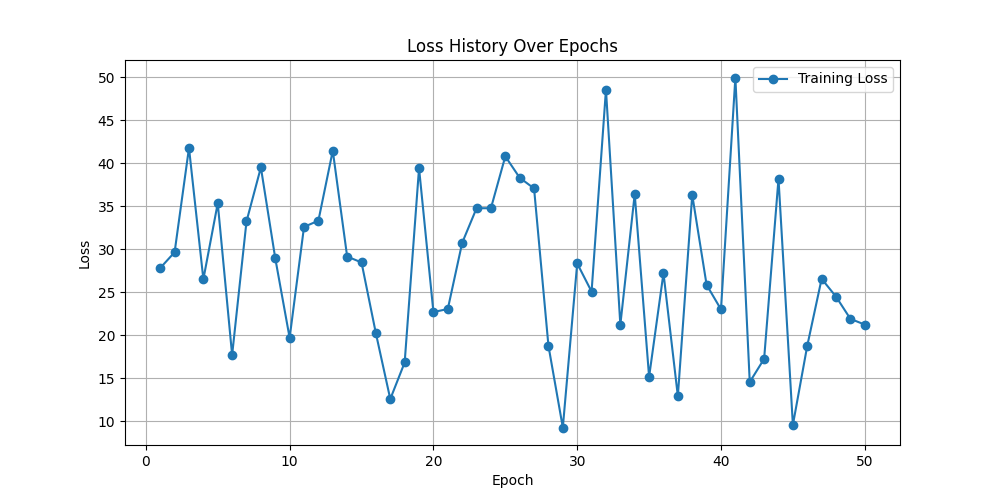
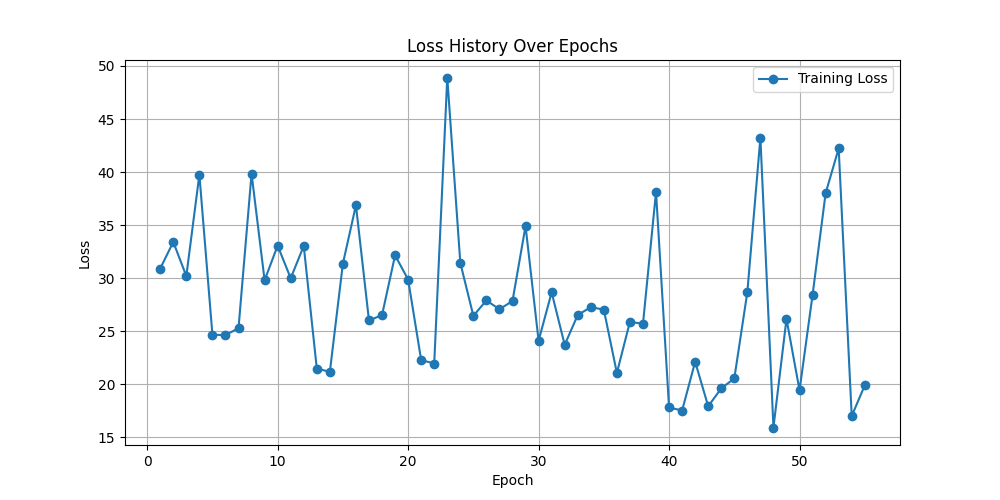
reduce loss flunctuation

diff --git a/src/model.py b/src/model.py
@@ -25,15 +25,15 @@ class ElectronicsCoolingModel(nn.Module):
         x = self.output(x)
         return x
 
-def train_model(model, criterion, optimizer, train_loader, epochs=50):
+def train_model(model, criterion, optimizer, train_loader, epochs=55):
     loss_history = []
     for epoch in range(epochs):
         for inputs, targets in train_loader:
             optimizer.zero_grad()
-            outputs = model(inputs)
+            outputs = model(inputs) # forward pass
             loss = criterion(outputs, targets)
-            loss.backward() # computes the gradients of the loss function
-            optimizer.step() # updates the model's weights and biases and minimizes the loss.
+            loss.backward() # backward pass (gradient calculation)
+            optimizer.step() # update model's weights and biases, minimizes the loss.
         loss_history.append(loss.item())
         print(f'Epoch {epoch+1}, Loss: {loss.item()}')
     return loss_history
@@ -50,12 +50,12 @@ def main():
 
     # Create a dataset and loader
     dataset = TensorDataset(inputs, targets)
-    train_loader = DataLoader(dataset, batch_size=15, shuffle=True)
+    train_loader = DataLoader(dataset, batch_size=20, shuffle=True)
 
     # Model, criterion, and optimizer
     model = ElectronicsCoolingModel()
     criterion = nn.MSELoss()
-    optimizer = optim.Adam(model.parameters(), lr=0.001) # Adam optimization is a stochastic gradient descent method
+    optimizer = optim.Adam(model.parameters(), lr=0.0005) # Adam optimization is a stochastic gradient descent method
 
     # Train the model
     loss_history = train_model(model, criterion, optimizer, train_loader)

diff --git a/src/data_generation.py b/src/data_generation.py
@@ -10,8 +10,7 @@ def generate_data(num_samples=1000):
     # Randomly generate ambient temperatures (in degrees Celsius)
     ambient_temps = np.random.uniform(low=10, high=35, size=num_samples)
     
-    # Placeholder for thermal response (temperature of the circuit), this would be a function of power_loads and ambient_temps
-    # For simplicity, we assume a linear relationship here; real scenarios might need a complex model or actual simulation data.
+    # Assume a linear relationship
     circuit_temps = 0.5 * power_loads + 0.4 * ambient_temps + np.random.normal(loc=0, scale=5, size=num_samples)
     
     # Create a DataFrame
